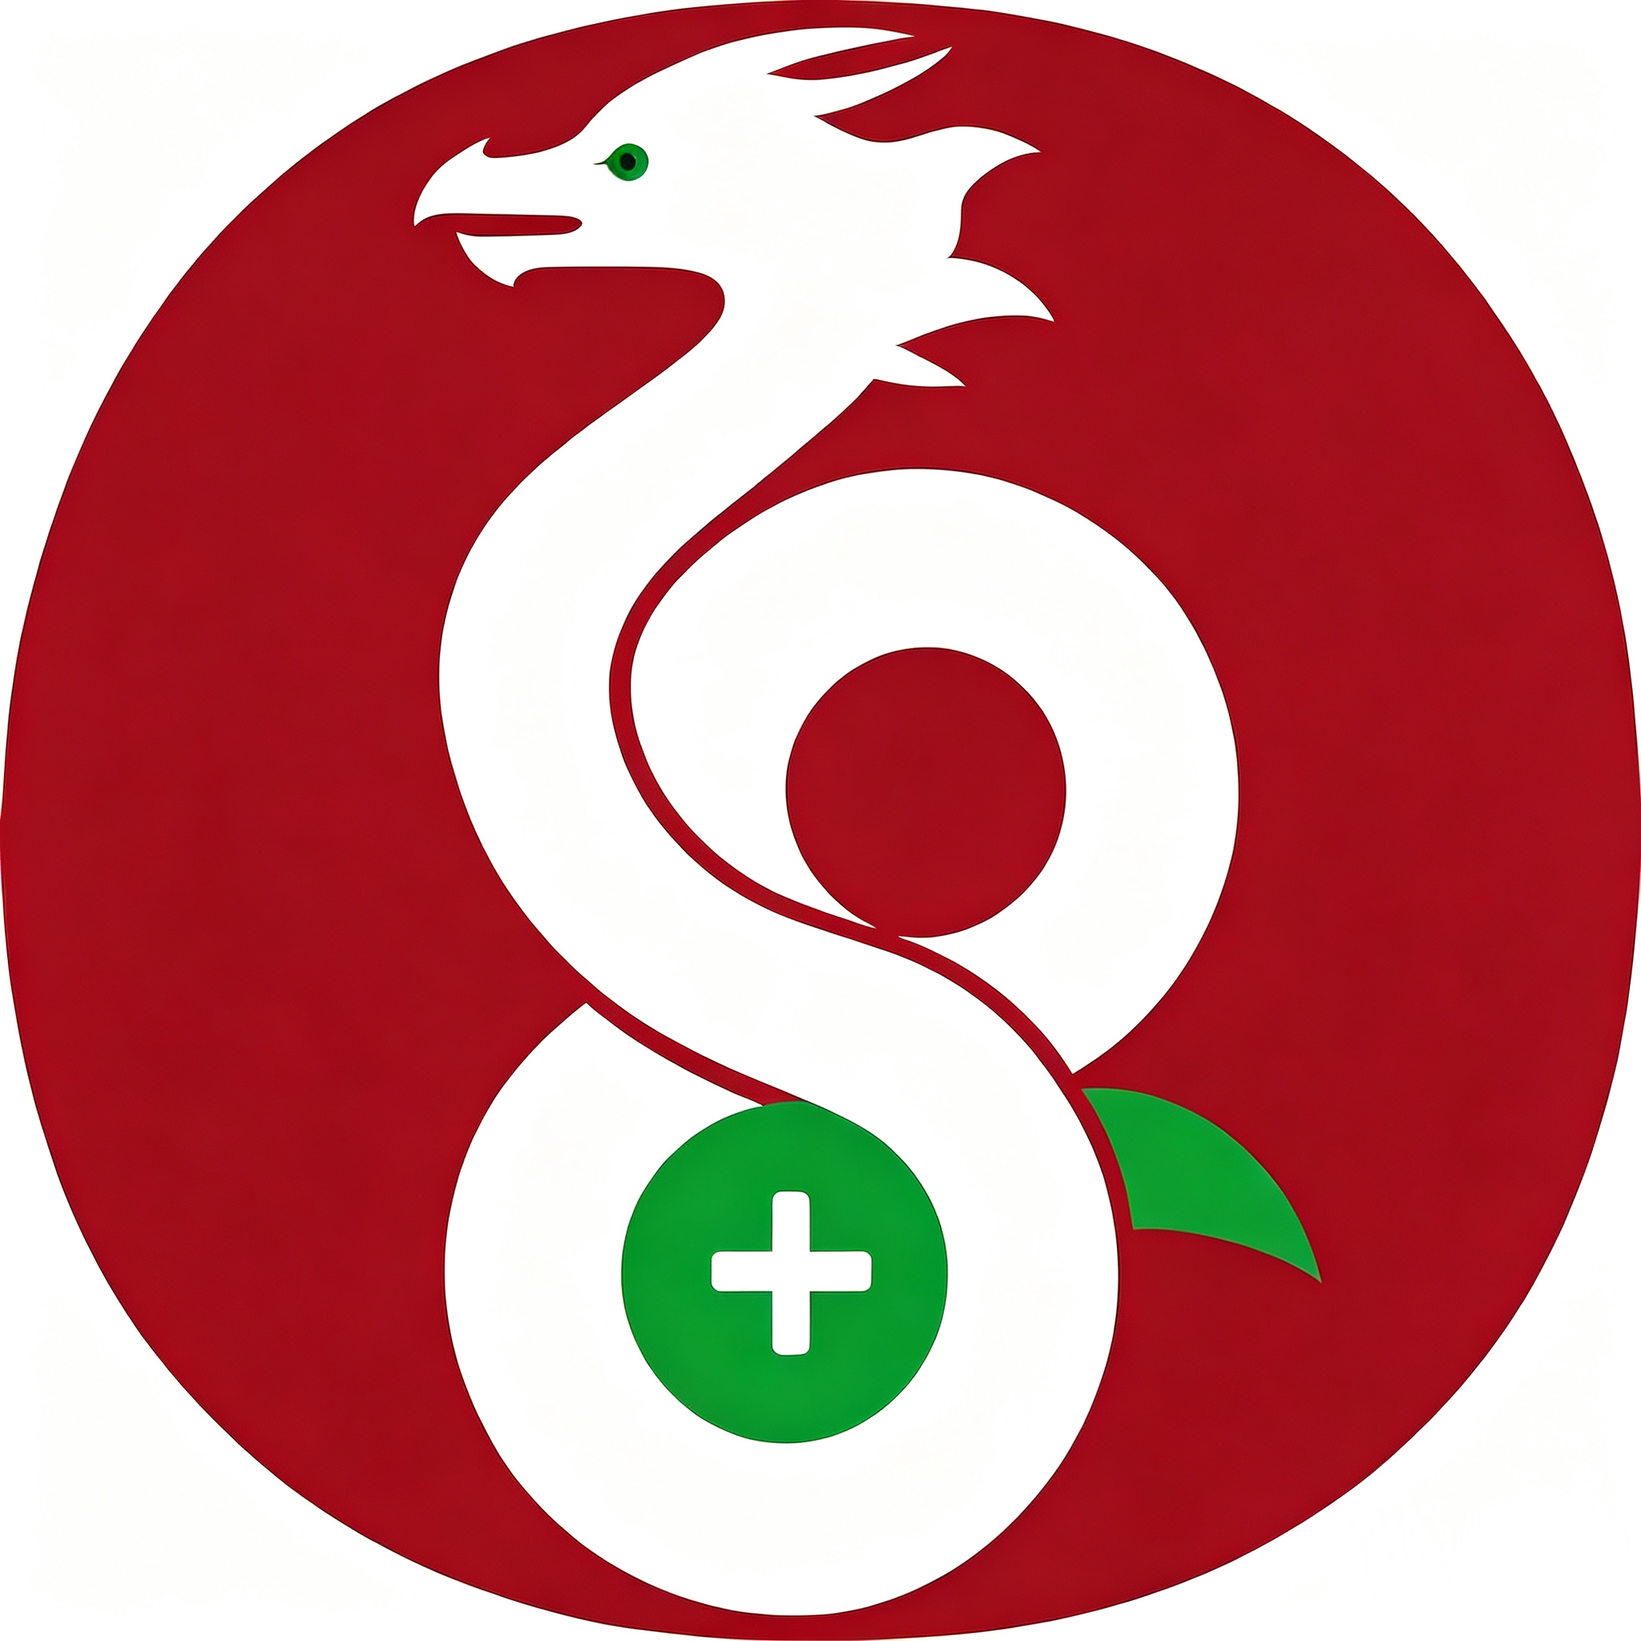
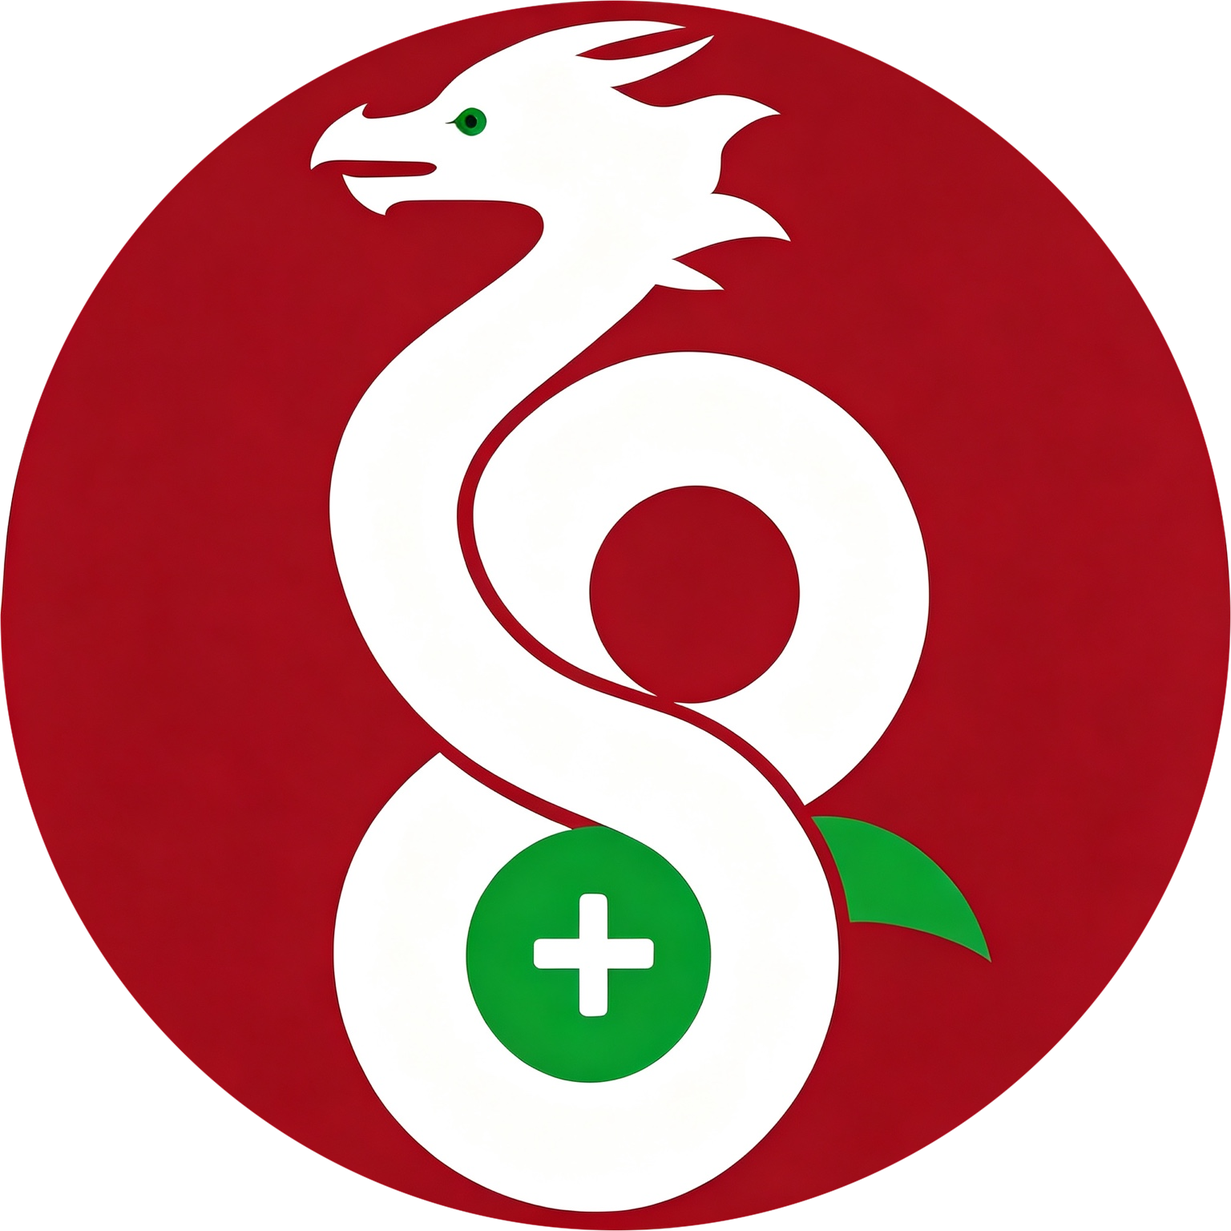
release: v2.4.0 — corner-parked, draggable status bubbles
The status bubble no longer anchors to the main window's corner, which
let it land on top of the content it was meant to report on. On
macOS/Linux it now parks in the bottom-right of the primary screen's
work area (falling back to the old window anchor only if the screen
API is unavailable), and the whole card is draggable while the buttons
stay clickable. The Windows bubble gained the same drag behaviour via
WM_NCHITTEST/WM_NCLBUTTONUP: the body acts as a caption, a press under
the movement tolerance still counts as the click-to-open gesture, and
caption double-click is suppressed so a borderless bubble cannot
maximise. Dragging never activates the window on any platform.

Also ships the optimised appicon.png, which is the icon source the
build pipeline renders into installers.

diff --git a/frontend/src/lib/StatusPopup.svelte b/frontend/src/lib/StatusPopup.svelte
@@ -139,6 +139,16 @@
     font-family: var(--font-sans, system-ui);
     font-size: 13px;
     line-height: 1.4;
+    /* Wails frameless-window dragging: runtime drag.js starts a window
+       drag when the element under the pressed button computes
+       --wails-draggable: drag (inherited by every child unless a nearer
+       rule opts out, which is what the interactive bits below do). The
+       bubble is parkable anywhere; a standing notification that covers
+       content should be movable out of the way. */
+    --wails-draggable: drag;
+    user-select: none;
+    -webkit-user-select: none;
+    cursor: default;
     display: flex;
     flex-direction: column;
     gap: 8px;
@@ -154,6 +164,8 @@
     letter-spacing: -0.01em;
   }
   .popup-close {
+    /* Interactive: must not hand the press to the window drag. */
+    --wails-draggable: no-drag;
     background: none;
     border: none;
     color: var(--text-secondary, #aaa);
@@ -232,6 +244,7 @@
     margin-top: 2px;
   }
   .btn {
+    --wails-draggable: no-drag;
     height: 28px;
     padding: 0 12px;
     background: var(--bg-card, #2a2a2a);

diff --git a/internal/gui/notify_windows.go b/internal/gui/notify_windows.go
@@ -23,8 +23,10 @@ import (
 // unplug/replug, network loss, manual connect/disconnect), a small
 // self-drawn bubble pops up near the notification area reporting the
 // current connection situation. It carries a mini menu (Open Window /
-// Disconnect), can be dismissed with the ✕ button, and closes itself after
-// the configured duration (default 10s).
+// Disconnect), can be dismissed with the ✕ button, and — being a standing
+// notification — stays until the user acts; only the informational launch
+// overview closes itself after the configured duration. Any press-drag on
+// the bubble moves it (WM_NCHITTEST returns HTCAPTION outside the buttons).
 
 const (
 	connectPopupClass = "WireGuideConnectPopup"
@@ -38,15 +40,23 @@ const (
 	swShowNoActivate = 4
 
 	// Messages
-	wmEraseBkgnd  = 0x0014
-	wmPaint       = 0x000F
-	wmClose       = 0x0010
-	wmDestroy     = 0x0002
-	wmTimer       = 0x0113
-	wmMouseMove   = 0x0200
-	wmLButtonDown = 0x0201
-	wmLButtonUp   = 0x0202
-	wmMouseLeave  = 0x02A3
+	wmNCHitTest       = 0x0084
+	wmNCLButtonDown   = 0x00A1
+	wmNCLButtonUp     = 0x00A2
+	wmNCLButtonDblClk = 0x00A3
+	wmEraseBkgnd      = 0x0014
+	wmPaint           = 0x000F
+	wmClose           = 0x0010
+	wmDestroy         = 0x0002
+	wmTimer           = 0x0113
+	wmMouseMove       = 0x0200
+	wmLButtonDown     = 0x0201
+	wmLButtonUp       = 0x0202
+	wmMouseLeave      = 0x02A3
+
+	// WM_NCHITTEST returns
+	htClient  = 1
+	htCaption = 2
 
 	// GDI
 	transparentBkMode = 1
@@ -104,6 +114,8 @@ var (
 	procPostMessageW          = user32dll.NewProc("PostMessageW")
 	procSHAppBarMessage       = shell32dll.NewProc("SHAppBarMessage")
 	procSetWindowRgn          = user32dll.NewProc("SetWindowRgn")
+	procGetWindowRect         = user32dll.NewProc("GetWindowRect")
+	procGetCursorPos          = user32dll.NewProc("GetCursorPos")
 
 	procCreateSolidBrush      = gdi32dll.NewProc("CreateSolidBrush")
 	procCreateFontIndirectW   = gdi32dll.NewProc("CreateFontIndirectW")
@@ -319,6 +331,10 @@ type popupData struct {
 	hoverClose bool
 	hoverOpen  bool
 	hoverDisc  bool
+
+	// ncPress records where a non-client (caption) press began, in screen
+	// coords, so the matching release can tell a click from a drag.
+	ncPress popupPoint
 }
 
 var (
@@ -630,6 +646,54 @@ func popupWindowProc(hwnd uintptr, msg uint32, wParam, lParam uintptr) uintptr {
 		return 0
 	case wmEraseBkgnd:
 		return 1 // skip background erase to avoid flicker
+	case wmNCHitTest:
+		// The whole bubble is a caption (draggable) except its buttons.
+		// A standing notification must be parkable anywhere without the
+		// app doing anything: HTCAPTION hands the press to DefWindowProc's
+		// modal move loop, which drags the window and — crucially for a
+		// WS_EX_NOACTIVATE bubble — never activates or focus-steals.
+		sp := pointFromLPARAM(lParam) // screen coords
+		var wr windows.Rect
+		procGetWindowRect.Call(hwnd, uintptr(unsafe.Pointer(&wr)))
+		p := popupPoint{X: sp.X - wr.Left, Y: sp.Y - wr.Top}
+		if inRect(p, d.closeRect) || inRect(p, d.openRect) || inRect(p, d.discRect) {
+			return htClient
+		}
+		return htCaption
+	case wmNCLButtonDown:
+		d.ncPress = pointFromLPARAM(lParam) // screen coords
+		return defWindowProc(hwnd, msg, wParam, lParam)
+	case wmNCLButtonUp:
+		// DefWindowProc's drag loop ends by posting this message. A press
+		// released without leaving the caption's click tolerance is the
+		// old "click the bubble to open the window", so that gesture
+		// survives the drag; anything longer was a drag — keep the
+		// notification standing, just moved.
+		var cur popupPoint
+		procGetCursorPos.Call(uintptr(unsafe.Pointer(&cur)))
+		tol := int32(4 * d.scale)
+		dx, dy := cur.X-d.ncPress.X, cur.Y-d.ncPress.Y
+		if dx < 0 {
+			dx = -dx
+		}
+		if dy < 0 {
+			dy = -dy
+		}
+		if dx <= tol && dy <= tol {
+			var wr windows.Rect
+			procGetWindowRect.Call(hwnd, uintptr(unsafe.Pointer(&wr)))
+			p := popupPoint{X: cur.X - wr.Left, Y: cur.Y - wr.Top}
+			if inRect(p, d.bodyRect) || inRect(p, d.titleRect) ||
+				inRect(p, d.dotRect) || inRect(p, d.warnRect) {
+				procDestroyWindow.Call(hwnd)
+				if d.onOpen != nil {
+					go d.onOpen()
+				}
+			}
+		}
+		return 0
+	case wmNCLButtonDblClk:
+		return 0 // a borderless bubble must not maximise/restore on caption double-click
 	case wmPaint:
 		drawPopup(d)
 		return 0
@@ -656,11 +720,9 @@ func popupWindowProc(hwnd uintptr, msg uint32, wParam, lParam uintptr) uintptr {
 			if d.onOpen != nil {
 				go d.onOpen()
 			}
-		case inRect(p, d.bodyRect) || inRect(p, d.titleRect):
-			procDestroyWindow.Call(hwnd)
-			if d.onOpen != nil {
-				go d.onOpen()
-			}
+			// Body/title clicks are handled by WM_NCLBUTTONUP: since
+			// WM_NCHITTEST marks everything but the buttons as caption,
+			// presses there never arrive as client messages.
 		}
 		return 0
 	case wmMouseMove:

diff --git a/internal/gui/popup_wails.go b/internal/gui/popup_wails.go
@@ -242,11 +242,32 @@ func destroyPopupWindow() {
 	}
 }
 
-// computePopupPos anchors the bubble at the bottom-right corner of the main
-// window (the closest cross-platform stand-in for "near the tray" — Wails v3
-// alpha does not expose screen geometry publicly). Falls back to centred when
-// the main window is not yet known.
+// computePopupPos anchors the bubble at the bottom-right corner of the
+// primary display's WORK AREA (the screen minus menu bar / taskbar / Dock),
+// mirroring where the Windows bubble parks by its tray. The work area —
+// not the full bounds — is what keeps the bubble off the Dock, and the
+// corner — not a main-window anchor — is what keeps it off the user's
+// content: a bubble pinned to the window's corner used to sit on top of
+// whatever the window was showing, which is exactly what a notification
+// must not do. SetPosition and WorkArea are both in DIPs, so no scaling
+// correction is needed here.
 func computePopupPos(w, h int) (int, int) {
+	if popupApp != nil {
+		if sc := popupApp.Screen.GetPrimary(); sc != nil {
+			wa := sc.WorkArea
+			x := wa.X + wa.Width - w - popupMargin
+			y := wa.Y + wa.Height - h - popupMargin
+			if x < wa.X {
+				x = wa.X + popupMargin
+			}
+			if y < wa.Y {
+				y = wa.Y + popupMargin
+			}
+			return x, y
+		}
+	}
+	// No screen info (headless / early startup): fall back to anchoring on
+	// the main window, and if even that is unknown, let the WM place us.
 	if dockWindow != nil {
 		dx, dy := dockWindow.Position()
 		dw, dh := dockWindow.Size()

diff --git a/README.zh-TW.md b/README.zh-TW.md
@@ -30,7 +30,7 @@ WireGuide Plus 是對開源專案 [`korjwl1/wireguide`](https://github.com/korjw
 - **系統匣連線通知** — 啟動 15 秒後（管理員權限提示處理完成）彈出全部隧道總覽氣泡：逐條列出即時狀態與自動/手動模式，並按可設定的停留時間自動關閉（預設 10 秒，可於設定中調整）；
   之後網路變更（Wi-Fi 切換、拔除網路線、網路中斷等）導致隧道狀態改變時，彈出按隧道逐行顯示的狀態氣泡
   （「🟢 Connected: 名稱」綠 /「🔴 Disconnected: 名稱」紅 / 🟡 連線中琥珀），浮在其他應用程式之上但不搶焦點，
-  **常駐直到你處理**：手動關閉、開啟主視窗、點斷開，或被更新的事件取代。三平台行為一致（macOS/Linux 此前沒有彈窗）。
+  **常駐直到你處理**：手動關閉、開啟主視窗、點斷開，或被更新的事件取代。氣泡停靠於螢幕工作區角落、不壓主視窗內容，按住可拖曳到任意位置。三平台行為一致（macOS/Linux 此前沒有彈窗）。
 - **統一的系統匣操作** — 左鍵或右鍵單擊都開啟系統匣選單，左鍵雙擊開啟主視窗，三平台一致；選單項在 macOS/Linux 帶 🟢 / 🔴 狀態符號（Windows 選單由 GDI 繪製、無法渲染彩色 emoji，改用 ✔ / ✗）。
 - **隧道管理** — 匯入 / 匯出 `.conf`、連線歷史、快速切換。
 - **AmneziaWG（AWG）隧道** — 支援匯入並連接 AmneziaWG（混淆版 WireGuard）設定。AWG 由設定中的 Jc/Jmin/Jmax/S1-S4/H1-H4 混淆參數自動辨識，對應隧道會顯示「AmneziaWG」徽章；可在「設定 → 進階」中關閉支援。

diff --git a/README.zh.md b/README.zh.md
@@ -30,7 +30,7 @@ WireGuide Plus 是对开源项目 [`korjwl1/wireguide`](https://github.com/korjw
 - **托盘连接状态通知** — 启动后 15 秒（等提权弹窗落定后）弹出全部隧道总览气泡：逐条列出实时状态与自动/手动模式，按可调时长自动关闭（默认 10 秒，可在设置中调整）；
   之后网络变化（切换 Wi-Fi、拔网线、断网……）导致隧道状态改变时，弹出按隧道逐行显示的状态气泡
   （「🟢 Connected: 名称」绿 /「🔴 Disconnected: 名称」红 / 🟡 连接中琥珀），浮在其他应用之上但
-  不抢焦点，**常驻直到你处理**：手动关闭、打开主窗口、点断开，或被更新的事件替换。三平台行为一致（macOS/Linux 此前没有弹窗）。
+  不抢焦点，**常驻直到你处理**：手动关闭、打开主窗口、点断开，或被更新的事件替换。气泡停靠在屏幕工作区角落、不压主窗口内容，按住可拖到任意位置。三平台行为一致（macOS/Linux 此前没有弹窗）。
 - **统一的托盘操作** — 左键或右键单击都打开托盘菜单，左键双击打开主窗口，三平台一致；托盘菜单项在 macOS/Linux 带 🟢 / 🔴 状态符号（Windows 菜单由 GDI 绘制、无法渲染彩色 emoji，改用 ✔ / ✗）。
 - **隧道管理** — 导入 / 导出 `.conf`、连接历史、快速开关。
 - **AmneziaWG（AWG）隧道** — 支持导入并连接 AmneziaWG（混淆版 WireGuard）配置。AWG 由配置中的 Jc/Jmin/Jmax/S1-S4/H1-H4 混淆参数自动识别，对应隧道会显示「AmneziaWG」徽标；可在「设置 → 高级」中关闭支持。

diff --git a/CHANGELOG.ja.md b/CHANGELOG.ja.md
@@ -4,6 +4,16 @@ All notable changes to WireGuide Plus will be documented in this file.
 
 > 简体中文: [CHANGELOG.zh.md](CHANGELOG.zh.md) · English: [CHANGELOG.md](CHANGELOG.md) · 繁體中文: [CHANGELOG.zh-TW.md](CHANGELOG.zh-TW.md) · 한국어: [CHANGELOG.ko.md](CHANGELOG.ko.md)
 
+## [2.4.0] - 2026-09-26
+
+### ✨ 追加
+
+- **状態バブルをマウスドラッグで動かせます。** 常駐バブルがうっかり必要な内容を隠したら、ボタン以外を掴んで移動。ドラッグ中はアプリがアクティベートされずフォーカスも奪われません（3プラットフォーム共通）。Windows バブルはネイティブのキャプション移動で、本体クリックは従来どおりメインウィンドウを開きます。macOS/Linux バブルは Wails のウィンドウドラッグに対応します。
+
+### 🔧 変更
+
+- **macOS/Linux の状態バブルを画面のワークエリア右下隅に配置** —— Windows バブルがトレイ隅に停まるのと同じ位置です。従来のメインウィンドウ右下アンカー（通知が報告対象のウィンドウ内容に重なる）から変更しました。ディスプレイ情報が取得できない場合のみ従来動作に戻ります。
+
 ## [2.3.11] - 2026-09-26
 
 ### ✨ 追加

diff --git a/README.ja.md b/README.ja.md
@@ -41,6 +41,7 @@ WireGuide Plus はオープンソースプロジェクト
   その後のネットワーク変更（Wi-Fi 切替・ケーブル抜去・ネットワーク喪失など）でトンネル状態が
   変わった場合は、トンネルごと1行ずつの状態バブル（「🟢 Connected: 名前」緑 /「🔴 Disconnected: 名前」赤 / 🟡 接続中は琥珀）を表示します。
   バブルはフォーカスを奪わず他のアプリの上に浮き、**ユーザーが操作するまで表示を維持**（閉じる・メインウィンドウを開く・切断、または新しいイベントに置換）します。
+  バブルは作業領域の隅に停まりコンテンツを隠さず、ドラッグでどこへでも動かせます。
   3プラットフォームとも同一の挙動です（以前 macOS と Linux にはバブルがありませんでした）。
 - **トレイ操作の統一** — 左クリックでも右クリックでもメニューを開き、左ダブルクリックでメインウィンドウを開きます（3プラットフォーム共通）。
   メニュー項目は macOS/Linux では 🟢 / 🔴 のステータス記号付き（Windows のメニューは GDI 描画でカラ―絵文字が使えないため ✔ / ✗）。

diff --git a/CHANGELOG.md b/CHANGELOG.md
@@ -4,6 +4,16 @@ All notable changes to WireGuide Plus will be documented in this file.
 
 > 简体中文: [CHANGELOG.zh.md](CHANGELOG.zh.md) · 繁體中文: [CHANGELOG.zh-TW.md](CHANGELOG.zh-TW.md) · 日本語: [CHANGELOG.ja.md](CHANGELOG.ja.md) · 한국어: [CHANGELOG.ko.md](CHANGELOG.ko.md)
 
+## [2.4.0] - 2026-09-26
+
+### ✨ Added
+
+- **Status bubbles can be dragged out of the way with the mouse.** If a standing bubble happens to cover something you need, grab it anywhere outside its buttons and move it — the gesture is focus-safe: dragging never activates the app or steals keyboard focus, on any platform. The Windows bubble drags via native caption handling (a click on its body still opens the main window); the macOS/Linux bubble uses the Wails window-drag.
+
+### 🔧 Changed
+
+- **The macOS/Linux status bubble now anchors to the bottom-right corner of the screen's work area** — the same pocket of screen the Windows bubble occupies by its tray — instead of hugging the main window's bottom-right corner. A notification no longer sits on top of the very window whose state it reports; the main-window anchor survives only as a fallback when no display info is available.
+
 ## [2.3.11] - 2026-09-26
 
 ### ✨ Added

diff --git a/CHANGELOG.ko.md b/CHANGELOG.ko.md
@@ -4,6 +4,16 @@ WireGuide Plus의 모든 주요 변경 사항은 이 파일에 기록됩니다.
 
 > 简体中文: [CHANGELOG.zh.md](CHANGELOG.zh.md) · English: [CHANGELOG.md](CHANGELOG.md) · 繁體中文: [CHANGELOG.zh-TW.md](CHANGELOG.zh-TW.md) · 日本語: [CHANGELOG.ja.md](CHANGELOG.ja.md)
 
+## [2.4.0] - 2026-09-26
+
+### ✨ 추가
+
+- **상태 버블을 마우스 드래그로 옮길 수 있습니다.** 상주 버블이 하필 필요한 내용을 가리면 버튼 외 아무곳이나 잡아 드래그하세요. 드래그 중 앱이 활성화되거나 포커스를 빼앗지 않습니다(3플랫폼 공통). Windows 버블은 네이티브 캡션 이동이며 본체 클릭은 기존처럼 메인 창을 엽니다. macOS/Linux 버블은 Wails 창 드래그를 사용합니다.
+
+### 🔧 변경
+
+- **macOS/Linux 상태 버블을 화면 작업 영역 우하단 모서리에 배치** — Windows 버블이 트레이 구석에 자리하는 것과 같은 위치입니다. 더 이상 알림이 스스로 보고하는 주 창 내용 위에 덮이지 않으며, 디스플레이 정보를 얻지 못할 때만 기존 주 창 앵커로 되돌립니다.
+
 ## [2.3.11] - 2026-09-26
 
 ### ✨ 추가

diff --git a/README.ko.md b/README.ko.md
@@ -39,6 +39,7 @@ WireGuide Plus는 오픈소스 프로젝트 [`korjwl1/wireguide`](https://github
   이후 네트워크 변화(Wi-Fi 전환, 랜 케이블 분리, 인터넷 끊김 등)로 터널 상태가
   바뀌면 터널별 1줄 상태 버블(「🟢 Connected: 이름」초록 / 「🔴 Disconnected: 이름」빨강 / 🟡 연결 중 주황)을 표시합니다.
   버블은 포커스를 빼앗지 않고 다른 앱 위에 뜨며 **사용자가 처리할 때까지 유지**됩니다(닫기 / 메인 창 열기 / 연결 끊기, 또는 새 이벤트로 교체).
+  버블은 작업 영역 구석에 자리해 콘텐츠를 가리지 않으며, 드래그로 어디서나 이동할 수 있습니다.
   세 플랫폼 모두 동일하게 작동합니다(이전에는 macOS/Linux에 버블이 없었습니다).
 - **통일된 트레이 동작** — 왼쪽이든 오른쪽이든 한 번 클릭하면 메뉴가 열리고, 왼쪽 두 번 클릭으로 메인 창을 엽니다(3 플랫폼 공통).
   메뉴 항목은 macOS/Linux에서 🟢 / 🔴 상태 기호를 표시합니다(Windows 메뉴는 GDI 렌더링이라 컬러 이모지를 쓸 수 없어 ✔ / ✗ 사용).

diff --git a/CHANGELOG.zh.md b/CHANGELOG.zh.md
@@ -4,6 +4,16 @@ All notable changes to WireGuide Plus will be documented in this file.
 
 > English: [CHANGELOG.md](CHANGELOG.md) · 繁體中文: [CHANGELOG.zh-TW.md](CHANGELOG.zh-TW.md) · 日本語: [CHANGELOG.ja.md](CHANGELOG.ja.md) · 한국어: [CHANGELOG.ko.md](CHANGELOG.ko.md)
 
+## [2.4.0] - 2026-09-26
+
+### ✨ 新增
+
+- **状态气泡支持鼠标拖动。** 常驻气泡如果恰好挡住了你需要的内容，按住按钮以外的任意区域即可拖走；整个过程不抢焦点、不激活应用，三平台一致。Windows 气泡走原生标题栏拖动（在气泡正文上单击仍然是打开主窗口），macOS/Linux 气泡走 Wails 窗口拖拽。
+
+### 🔧 变更
+
+- **macOS/Linux 状态气泡改为锚定屏幕工作区右下角** —— 与 Windows 气泡停靠在托盘角落的位置一致，不再贴着主窗口右下角。通知不再压在它所报告的那个主窗口内容之上；仅当取不到显示器信息时才退回主窗口锚定。
+
 ## [2.3.11] - 2026-09-26
 
 ### ✨ 新增

diff --git a/CHANGELOG.zh-TW.md b/CHANGELOG.zh-TW.md
@@ -4,6 +4,16 @@ All notable changes to WireGuide Plus will be documented in this file.
 
 > 简体中文: [CHANGELOG.zh.md](CHANGELOG.zh.md) · English: [CHANGELOG.md](CHANGELOG.md) · 日本語: [CHANGELOG.ja.md](CHANGELOG.ja.md) · 한국어: [CHANGELOG.ko.md](CHANGELOG.ko.md)
 
+## [2.4.0] - 2026-09-26
+
+### ✨ 新增
+
+- **狀態氣泡支援滑鼠拖曳。** 常駐氣泡若剛好擋住你需要的內容，按住按鈕以外的任意區域即可拖走；整個過程不搶焦點、不啟動應用程式，三平台一致。Windows 氣泡走原生標題列拖曳（在氣泡內文單擊仍是開啟主視窗），macOS/Linux 氣泡走 Wails 視窗拖曳。
+
+### 🔧 變更
+
+- **macOS/Linux 狀態氣泡改為錨定螢幕工作區右下角** —— 與 Windows 氣泡停靠在工作列角落的位置一致，不再貼著主視窗右下角。通知不再壓在它所要回報的那個主視窗內容之上；僅在取不到顯示器資訊時才退回主視窗錨定。
+
 ## [2.3.11] - 2026-09-26
 
 ### ✨ 新增
